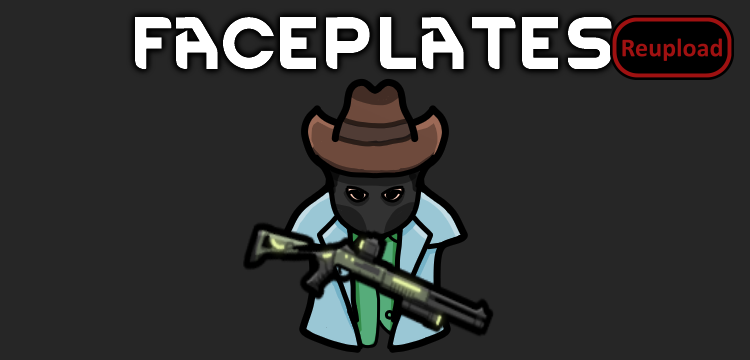
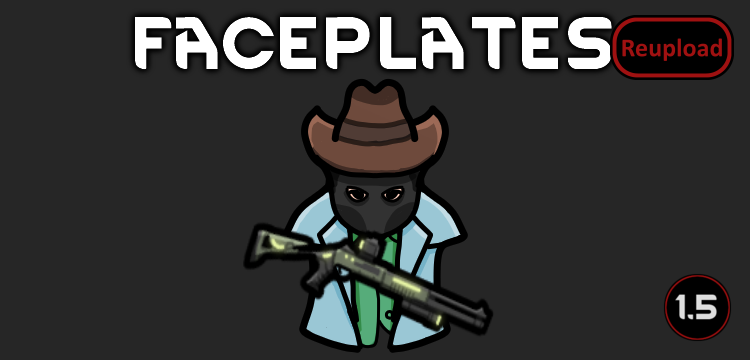
Mod updated for 1.5 and passed autotests

Changed region(s): [[0.8587, 0.7639, 0.9813, 0.9472]]

diff --git a/README.md b/README.md
@@ -28,11 +28,13 @@ Art by myself: shotgunfrenzy
 
 -  See if the the error persists if you just have this mod and its requirements active.
 -  If not, try adding your other mods until it happens again.
--  Post your error-log using https://steamcommunity.com/workshop/filedetails/?id=818773962]HugsLib and command Ctrl+F12
+-  Post your error-log using https://steamcommunity.com/workshop/filedetails/?id=818773962]HugsLib or the standalone https://steamcommunity.com/sharedfiles/filedetails/?id=2873415404]Uploader and command Ctrl+F12
 -  For best support, please use the Discord-channel for error-reporting.
 -  Do not report errors by making a discussion-thread, I get no notification of that.
 -  If you have the solution for a problem, please post it to the GitHub repository.
+-  Use https://github.com/RimSort/RimSort/releases/latest]RimSort to sort your mods
 
 
 
+https://steamcommunity.com/sharedfiles/filedetails/changelog/2387969260]![Image](https://img.shields.io/github/v/release/emipa606/SFFaceplate?label=latest%20version&style=plastic&color=9f1111&labelColor=black)
 
